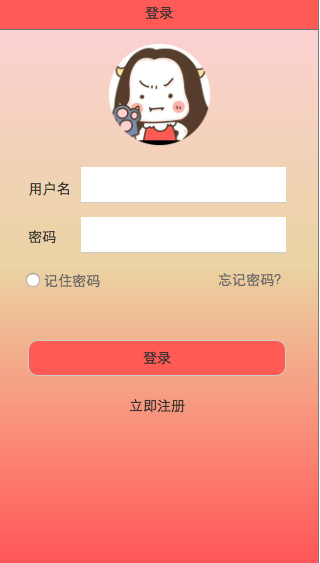
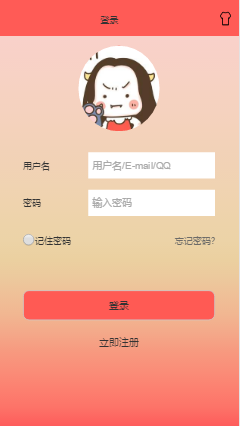
master

diff --git a/js/skin.js b/js/skin.js
@@ -11,6 +11,10 @@ var oSkin_ic=document.getElementById("skin_ic");
 var skin1=document.getElementById("skin1");
 //皮肤样式2
 var skin2=document.getElementById("skin2");
+//皮肤样式3
+var skin3=document.getElementById("skin3");
+//皮肤样式4
+var skin4=document.getElementById("skin4");
 //让皮肤图标出现
 var a=1;
 oSkin_icon.addEventListener("click",function () {
@@ -45,5 +49,11 @@ skin1.addEventListener("click",function () {
 },false);
 skin2.addEventListener("click",function () {
     disappear("none","../css/skin2.css");
+},false);
+skin3.addEventListener("click",function () {
+    disappear("none","../css/skin3.css");
+},false);
+skin4.addEventListener("click",function () {
+    disappear("none","../css/skin4.css");
 },false);
 

diff --git a/html/land.html b/html/land.html
@@ -17,10 +17,12 @@
         <!--换肤图标-->
         <div class="skin_icon" id="skin_icon">
             <img src="../img/skin.png" alt="">
-            <div class="skin_ic" id="skin_ic">
-                <p id="skin1"><img src="../img/skin1.png" alt=""></p>
-                <p id="skin2"><img src="../img/skin2.png" alt=""></p>
-            </div>
+        </div>
+        <div class="skin_ic" id="skin_ic">
+            <p id="skin1"><img src="../img/skin1.png" alt=""></p>
+            <p id="skin2"><img src="../img/skin2.png" alt=""></p>
+            <p id="skin3"><img src="../img/skin3.png" alt=""></p>
+            <p id="skin4"><img src="../img/skin4.png" alt=""></p>
         </div>
     </header>
     <!--头像-->

diff --git a/html/register.html b/html/register.html
@@ -17,10 +17,12 @@
         <!--换肤图标-->
         <div class="skin_icon" id="skin_icon">
             <img src="../img/skin.png" alt="">
-            <div class="skin_ic" id="skin_ic">
-                <p id="skin1"><img src="../img/skin1.png" alt=""></p>
-                <p id="skin2"><img src="../img/skin2.png" alt=""></p>
-            </div>
+        </div>
+        <div class="skin_ic" id="skin_ic">
+            <p id="skin1"><img src="../img/skin1.png" alt=""></p>
+            <p id="skin2"><img src="../img/skin2.png" alt=""></p>
+            <p id="skin3"><img src="../img/skin3.png" alt=""></p>
+            <p id="skin4"><img src="../img/skin4.png" alt=""></p>
         </div>
     </header>
     <!--头像-->

diff --git a/css/skin4.css b/css/skin4.css
@@ -1,0 +1,35 @@
+/*main的背景图*/
+.main{
+    background:url("../img/body_bg4.jpg") no-repeat;
+    background-size: cover;
+}
+/*头部的颜色*/
+.header{
+    background: #6d7e92;
+    opacity: 0.7;
+    filter: Alpha(Opacity=70);
+    color: #fff;
+}
+/*头像*/
+.portrait{
+    background: url("../img/head4.jpg") no-repeat center;
+    background-size: cover;
+}
+.form{
+    color: #000;
+}
+/*字体颜色*/
+.form button a{
+    color: #fff;
+}
+/*按钮的颜色*/
+.form button.immediately{
+    background: #bacbbd;
+    opacity: 0.7;
+    filter: Alpha(Opacity=70);
+}
+/*input设置透明度*/
+.form p input{
+    opacity: 0.7;
+    filter: Alpha(Opacity=70);
+}

diff --git a/css/skin3.css b/css/skin3.css
@@ -1,0 +1,33 @@
+/*main的背景图*/
+.main{
+    background:url("../img/body_bg3.jpg") no-repeat;
+    background-size: cover;
+}
+/*头部的颜色*/
+.header{
+    background: #98b4c2;
+    opacity: 0.7;
+    filter: Alpha(Opacity=70);
+    color: #fff;
+}
+/*头像*/
+.portrait{
+    background: url("../img/head3.jpg") no-repeat center;
+    background-size: cover;
+}
+.form{
+    color: #000;
+}
+/*字体颜色*/
+.form button a{
+    color: #fff;
+}
+/*按钮的颜色*/
+.form button.immediately{
+    background: #98b4c2;
+}
+/*input设置透明度*/
+.form p input{
+    opacity: 0.7;
+    filter: Alpha(Opacity=70);
+}

diff --git a/css/land.css b/css/land.css
@@ -28,6 +28,7 @@ body{
     line-height: 200%;
     text-align: center;
     padding: 4% 0;
+    position: relative;
 }
 /*换肤的样式*/
 .header .skin_icon{
@@ -35,7 +36,6 @@ body{
     height: 100%;
     margin-right: 3%;
     float: right;
-    position: relative;
 }
 .header .skin_icon>img{
     width: 100%;
@@ -43,15 +43,15 @@ body{
 }
 /*皮肤的小图标*/
 .skin_ic{
-    width: 500%;
-    height: 300%;
+    width: 100%;
+    height: 100%;
     position: absolute;
     right: 0;
     top: 100%;
     display: none;
 }
 .skin_ic>p{
-    width: 50%;
+    width: 25%;
     height: 100%;
     float: left;
 }

diff --git a/css/skin2.css b/css/skin2.css
@@ -1,6 +1,6 @@
 /*main的背景图*/
 .main{
-    background:url("../img/body_bg.jpg") no-repeat;
+    background:url("../img/body_bg2.jpg") no-repeat;
     background-size: cover;
 }
 /*头部的颜色*/
